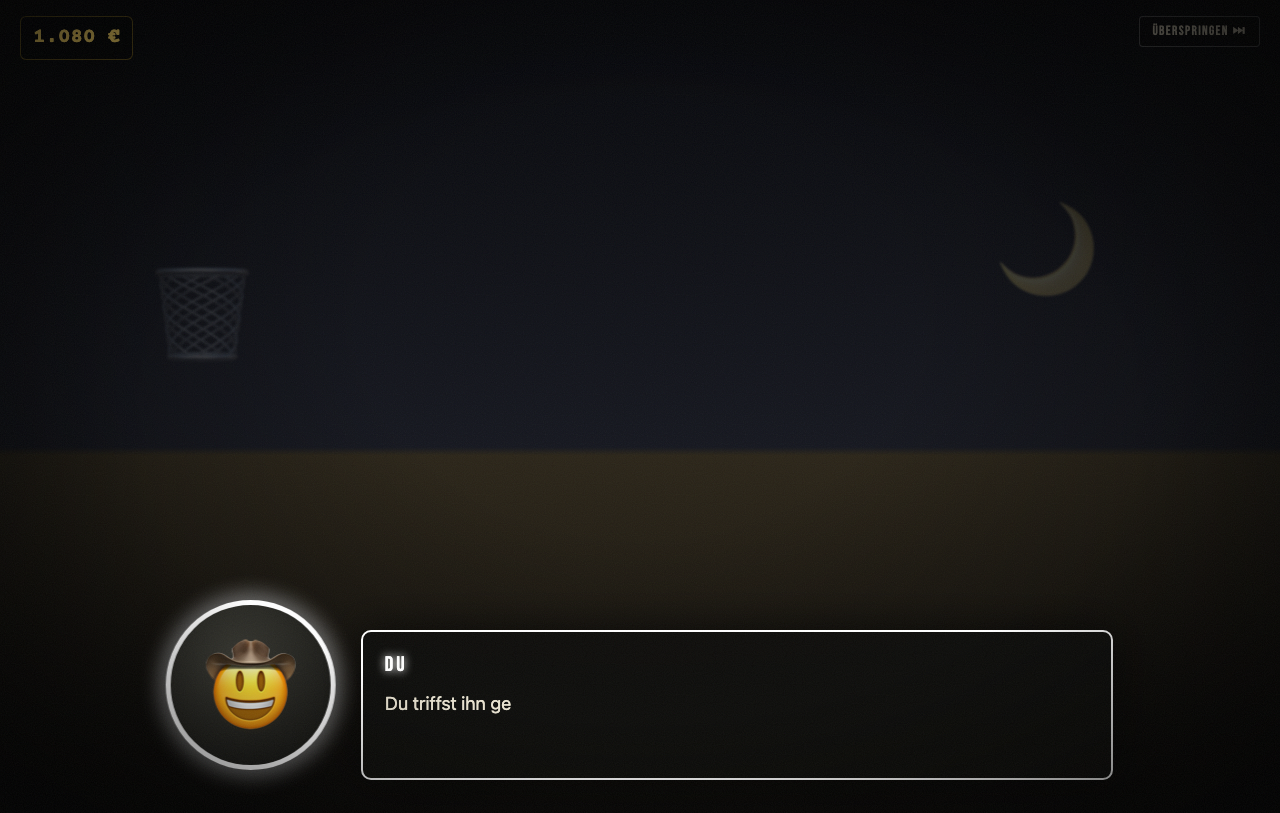
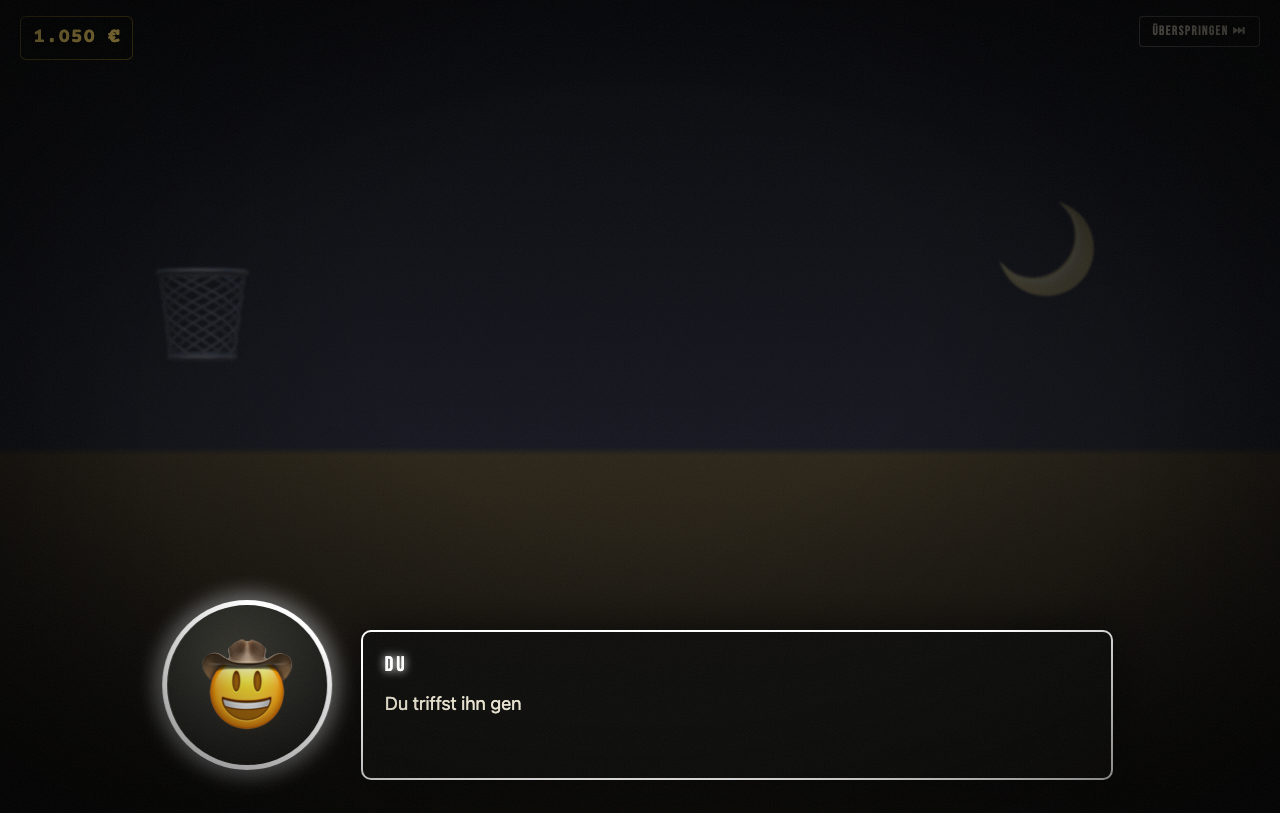
fix(test): Kampf-Check in scenario_mugging deterministisch machen (Math.random gestubbt)
Rules.fightChance(20) ist bei CHANCE_CAP 0.9 gedeckelt, daher war
"mug: Kampf mit Staerke 20 gewonnen" bislang zu ~10 % flakig (kein
Spiel-Defekt). Math.random wird jetzt unmittelbar vor der
"Kämpfen"-Wahl auf 0 gestubbt und nach der Ergebnis-Szene
zurückgesetzt; Assertion entsprechend auf bal == 1050 verschärft.
Zusätzlich ein Check, dass das Wahl-Panel genau drei Choice-Buttons
zeigt.

diff --git a/tests/playtest-story.py b/tests/playtest-story.py
@@ -914,6 +914,8 @@ async def scenario_mugging(cdp):
     # screenshotten -- der Brief schoss hier noch auf Panel 1 ("Der kurze Weg...", Screenshot ohne
     # Raeuber und ohne Prozent-Buttons); Step 3 verlangt aber genau die Choice-Buttons mit Prozenten.
     await cdp.advance_cutscene(max_steps=5)
+    n_choices = await cdp.eval("document.querySelectorAll('.cs-choices button').length", await_promise=False)
+    record("mug: Wahl-Panel zeigt genau drei Choice-Buttons", n_choices == 3, "n_choices=%s" % n_choices)
     await cdp.screenshot("mug-intro.png")
     await cdp.advance_cutscene(label_hint="Zahlen")
     await asyncio.sleep(0.6)
@@ -921,12 +923,17 @@ async def scenario_mugging(cdp):
     screen = await cdp.eval("UI.current && UI.current.id", await_promise=False)
     cd = await cdp.eval("State.s.mugCooldown", await_promise=False)
     record("mug: Zahlen kostet 200 und fuehrt zu den Slots", bal == 800 and screen == "slots" and cd == 15, "bal=%s screen=%s cd=%s" % (bal, screen, cd))
-    # Kaempfen mit Staerke 20 (sicherer Sieg, Brieftasche)
+    # Kaempfen mit Staerke 20 (Math.random gestubbt, kein zufaelliger Sieg): Rules.fightChance(20)
+    # ist bei Rules.MUG.CHANCE_CAP = 0.9 gedeckelt, also bleibt selbst bei Staerke 20 immer eine
+    # ~10 %-Chance auf eine Niederlage -- ohne Stub war dieser Check entsprechend flakig (siehe
+    # Fix-Report). Math.random() -> 0 macht Math.random() < fightChance immer wahr (Sieg) und
+    # Rules.mugWallet(rng) liefert damit exakt 50 (unterste Grenze 50-150).
     await setup("cousin")
     await cdp.eval("State.s.strength = 20; State.save(); 0", await_promise=False)
     await cdp.click(".door[data-screen=roulette]")
     await asyncio.sleep(0.6)
     await cdp.advance_cutscene(max_steps=5)
+    await cdp.eval("window.__origRandom = Math.random; Math.random = () => 0; 0", await_promise=False)
     await cdp.eval("__pt.advance('Kämpfen')", await_promise=False)
     await asyncio.sleep(0.5)
     # Screenshot mitten in der Ergebnis-Szene (Gasse-Hintergrund, Portrait, Kampftext) statt erst
@@ -934,11 +941,12 @@ async def scenario_mugging(cdp):
     # Durchklicken, als bereits wieder das Roulette-Blatt zu sehen war (siehe Report).
     await cdp.screenshot("mug-fight.png")
     await cdp.advance_cutscene()
+    await cdp.eval("Math.random = window.__origRandom; 0", await_promise=False)
     await asyncio.sleep(0.4)
     bal = await cdp.eval("State.s.balance", await_promise=False)
     st = await cdp.eval("State.s.strength", await_promise=False)
     won = await cdp.eval("State.s.stats.fightsWon", await_promise=False)
-    record("mug: Kampf mit Staerke 20 gewonnen, Brieftasche 50-150, Staerke 21", 1050 <= (bal or 0) <= 1150 and st == 21 and won == 1, "bal=%s st=%s won=%s" % (bal, st, won))
+    record("mug: Kampf mit Staerke 20 gewonnen, Brieftasche 50-150, Staerke 21", bal == 1050 and st == 21 and won == 1, "bal=%s st=%s won=%s" % (bal, st, won))
     # Wegrennen mit R8 + Carbon (90 %) - Ergebnis ist zufaellig, nur Konsistenz pruefen
     await setup("jugend")
     await cdp.eval("State.s.car = 'audiR8'; State.s.shoes = 'carbon'; State.save(); 0", await_promise=False)
